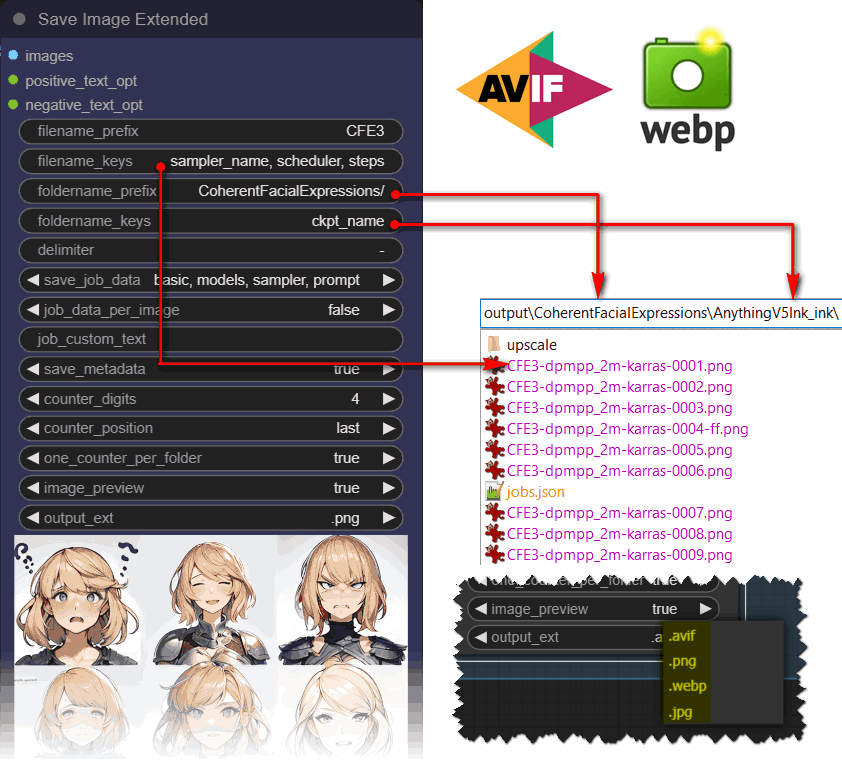
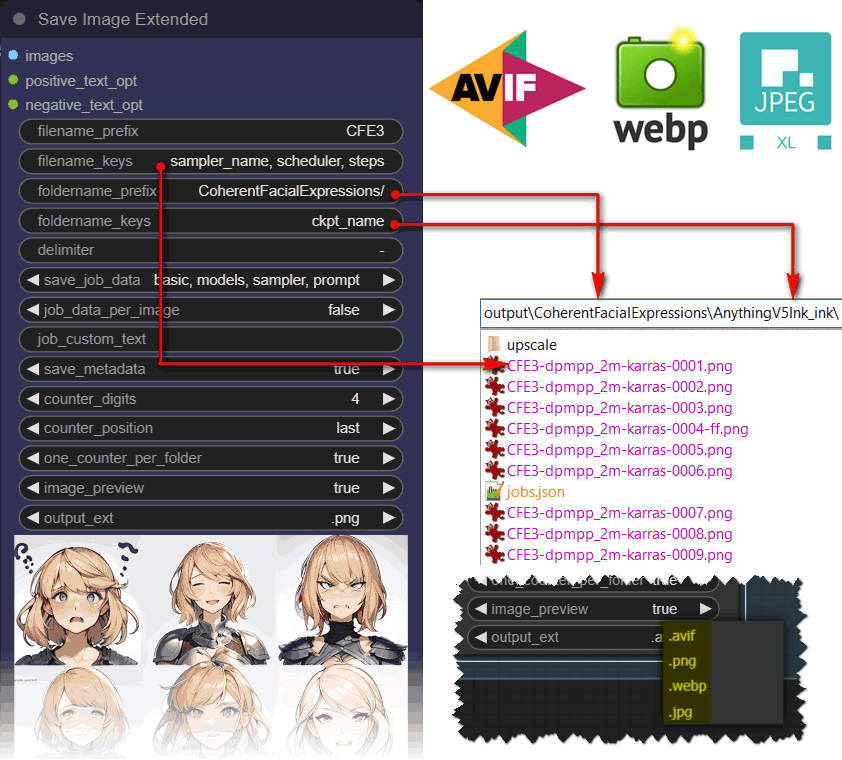
release 2.50 JXL 	modified:   README.md 	modified:   assets/save-image-extended-comfyui-example.png 	modified:   save_image_extended.py

Changed region(s): [[0.4941, 0.0303, 0.9881, 0.2118]]

diff --git a/save_image_extended.py b/save_image_extended.py
@@ -11,10 +11,28 @@ import pprint
 import piexif
 import piexif.helper
 
+avif_supported = False
+jxl_supported = False
+
+# Avif is included in requirements.txt
 try:
   import pillow_avif
-except ModuleNotFoundError:
+except:
   print(f"\033[92m[save_image_extended]\033[0m AVIF is not supported. To add it: pip install pillow pillow-avif-plugin\033[0m") 
+  pass
+else:
+  print(f"\033[92m[save_image_extended] AVIF is supported! Woohoo!\033[0m") 
+  avif_supported = True
+
+# Jxl requires jxlpy wheel to be compiled, and a valid MSVC environment, which is complex task
+try:
+  from jxlpy import JXLImagePlugin
+except:
+  print(f"\033[92m[save_image_extended]\033[0m JXL is not supported. To add it: pip install jxlpy\033[0m") 
+  print(f"\033[92m[save_image_extended]\033[0m                       You will need a valid MSVC env to build the wheel\033[0m") 
+  pass
+else:
+  jxl_supported = True
 
 # PIL must be loaded after pillow_avif
 from PIL import Image, ExifTags
@@ -26,13 +44,15 @@ original_locale = locale.setlocale(locale.LC_TIME, '')
 
 # class SaveImageExtended -------------------------------------------------------------------------------
 class SaveImageExtended:
-  version                 = 2.46
+  version                 = 2.50
   type                    = 'output'
   
   png_compress_level      = 9
+  lossless                = False
   avif_quality            = 60
   webp_quality            = 75
   jpeg_quality            = 91
+  jxl_quality             = 91
   
   filename_prefix         = 'ComfyUI'
   filename_keys           = 'sampler_name, scheduler, cfg, steps'
@@ -49,15 +69,15 @@ class SaveImageExtended:
   one_counter_per_folder  = True
   image_preview           = True
   extToRemove             = ['.safetensors', '.ckpt', '.pt', '.bin', '.pth']
+  output_ext              = '.webp'
+  output_exts             = ['.webp', '.png', '.jpg']
 
   print(f"\033[92m[save_image_extended]\033[0m version: {version}\033[0m")
-  if pillow_avif not in sys.modules:
-    output_ext              = '.avif'
-    output_exts             = ['.avif', '.png', '.webp', '.jpg']
-    print(f"\033[92m[save_image_extended] AVIF is supported! Woohoo!\033[0m\n") 
-  else:
-    output_ext              = '.png'
-    output_exts             = ['.png', '.webp', '.jpg']
+  if jxl_supported:
+    output_exts.insert(0, '.jxl')
+  # if pillow_avif not in sys.modules:
+  if avif_supported:
+    output_exts.insert(0, '.avif')
 
   def __init__(self):
     self.output_dir = folder_paths.get_output_directory()
@@ -433,6 +453,9 @@ class SaveImageExtended:
     dump = json.dumps(metadata)
     # print(f"dump={dump}")   {"prompt": { .. }, "workflow": { .. }}
     exif[ExifTags.Base.UserComment] = json.dumps(metadata)
+    # This should work the same:
+    # exif[0x9286] = json.dumps(metadata)
+    
     # exif[ExifTags.Base.UserComment] = piexif.helper.UserComment.dump(json.dumps(metadata), encoding="unicode")  # type 4
     # exif[ExifTags.Base.UserComment] = piexif.helper.UserComment.dump(json.dumps(metadata), encoding="jis")      # type 1
     # exif[ExifTags.Base.UserComment] = piexif.helper.UserComment.dump(json.dumps(metadata), encoding="ascii")    # type 1
@@ -477,16 +500,22 @@ class SaveImageExtended:
     match output_ext:
       case '.avif':
         if save_metadata: kwargs["exif"] = self.get_metadata_exif(img, prompt, extra_pnginfo)
+        kwargs["lossless"] = self.lossless
         kwargs["quality"] = self.avif_quality
       case '.webp':
         if save_metadata: kwargs["exif"] = self.get_metadata_exif(img, prompt, extra_pnginfo)
-        kwargs["lossless"] = False
+        kwargs["lossless"] = self.lossless
         kwargs["quality"] = self.webp_quality
         if self.webp_quality == 100: kwargs["lossless"] = True
       case '.jpg':
         if save_metadata: kwargs["exif"] = self.get_metadata_exif(img, prompt, extra_pnginfo)
         kwargs["quality"] = self.jpeg_quality
+      case '.jxl':
+        kwargs["lossless"] = self.lossless
+        if save_metadata: kwargs["exif"] = self.get_metadata_exif(img, prompt, extra_pnginfo)
+        kwargs["quality"] = self.jxl_quality
       case _:
+        # png: no quality
         if save_metadata: kwargs["pnginfo"] = self.get_metadata_png(img, prompt, extra_pnginfo)
         kwargs["compress_level"] = self.png_compress_level
         # png

diff --git a/README.md b/README.md
@@ -1,5 +1,5 @@
 # 💾 Save Image Extended for ComfyUI
-**AVIF** and **WebP** support!
+**AVIF** / **WebP** / **JXL** support!
 
 <p align="center">
  <img src="assets/save-image-extended-comfyui-example.png" />
@@ -7,8 +7,9 @@
 
 * Customize the folder, sub-folders, and filenames of your images! 
 * Save data about the generated job (sampler, prompts, models) as entries in a `json` (text) file, in each folder.
-* Use the values of ANY node's widget, by simply adding its badge number in the form _id.widget_name_: 
-* Oh btw... also saves your output as **WebP** / **JPEG** / **AVIP** ... And yes the prompt is included :) ComfyUI can load it but a PR approval is needed to fix a bug on their side.
+* Use the values of ANY node's widget, by simply adding its badge number in the form _id.widget_name_
+* Oh btw... also saves your output as **AVIF** / **WebP** / **JPEG** / **JXL** ... And yes the prompt is included :)
+* ComfyUI can only load PNG and WebP atm
 
 
 <br>
@@ -33,10 +34,15 @@ There is a requirements.txt that will take care of that, but just in case:
 pip install piexif pillow pillow-avif-plugin
 ```
 
+For Jpeg XL / jxl it's more complicated. You need to install and compile the wheel jxlpy, and therefore, need a valid and functional MSVC installation.
+
+```
+pip install jxlpy
+```
 
 ### Manual Download
 1. Open a terminal inside the 'custom_nodes' folder located in your ComfyUI installation dir
-2. Use the `git clone` command to clone the [save-image-extended-comfyui](https://github.com/audioscavenger/save-image-extended-comfyui) repo.
+2. Use the `git clone` command to clone the [save-image-extended-comfyui](https://github.com/audioscavenger/save-image-extended-comfyui) repo under ComfyUI\custom_nodes\
 ```
 git clone https://github.com/audioscavenger/save-image-extended-comfyui
 ```
@@ -82,13 +88,14 @@ Quality and compression settings:
 * AVIF quality is fixed at 60.
 * WebP quality is fixed at 75.
 * JPEG quality is fixed at 91.
+* JXL quality is fixed at 91.
 * PNG is maxed compressed (9)
 
 Start a discussion or a poll if you want to change output quality, and add another attribute in the node. There's so many already, some complain about the node being too tall.
 
 
 #
-About extensions WebP AVIF JPEG: ComfyUI cannot load it atm... Feel free to ask ComfyUI team to add support for AVIF/WebP/jpeg!
+About extensions WebP AVIF JPEG JXL: ComfyUI can only load PNG and WebP atm... Feel free to ask ComfyUI team to add support for AVIF/jpeg/JXL!
 
 The prompt is included under the **EXIF** tag `UserComment` (IFD0 / 0x9286) as defined [here](https://exiftool.org/TagNames/EXIF.html).
 It is saved in this form: `UserComment = {"prompt": {"1": {"inputs": {...}}}}`.
@@ -124,6 +131,8 @@ jobs.json sample: always generated and appended, not sure what it can be used fo
 I won't promise you the moon, but since I use this node myself, I will maintain it as much as I can. I do provide a way to contact me, and will accept PR and collabs. 
 Once I feel like I don't have time to work on it, I will gladly transfer ownership or let collabs maintain it.
 
+TODO:
+
 - [ ] ComfyRoll CR XY Save Grid Image: it offers jpeg webp tif - check how it embeds prompt and see if that works better with Comfy!
 - [ ] offer quality setting in the node?
 - [ ] remove save_job_to_json? thisis pretty much useless actually, since it only saves the last value found for each node.
@@ -132,6 +141,9 @@ Once I feel like I don't have time to work on it, I will gladly transfer ownersh
 - [ ] improve get_latest_counter: fails when user renames files: appends text after counter
 - [ ] offer to place the counter anywhere, as a key in filename_keys
 - [ ] files can get out of order if prefixes change... that is expected, but is this what we want? another reason to have the counter place anywhere we want
+
+### release 2.50 💾
+- added JXL support
 
 ### release 2.46 💾
 - bug discovered with *rgthree's Ksampler Config*: using `steps_total` as an input to a Ksampler, will issue the index of the output, instead of the steps value ("\[nodeNum, 0]" instead of steps value). FIX: use `steps_total` instead of `steps`!
